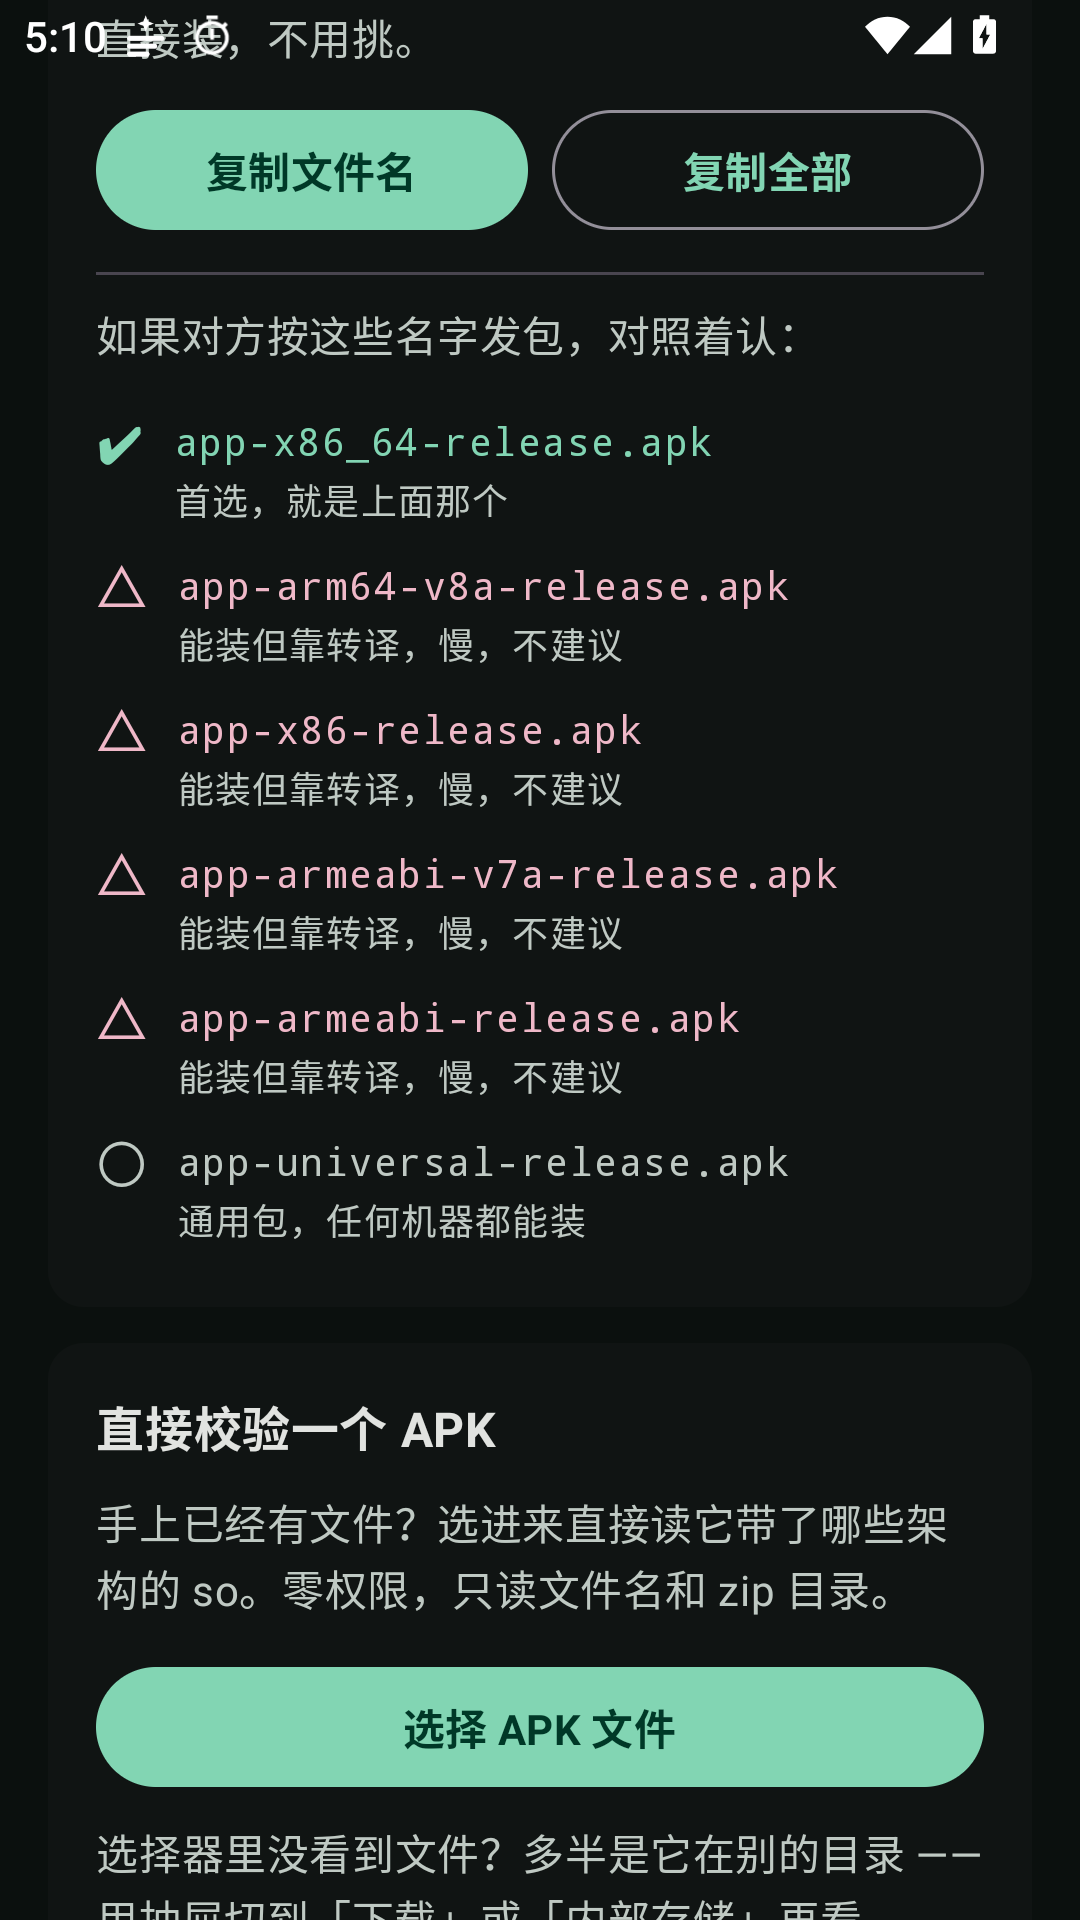
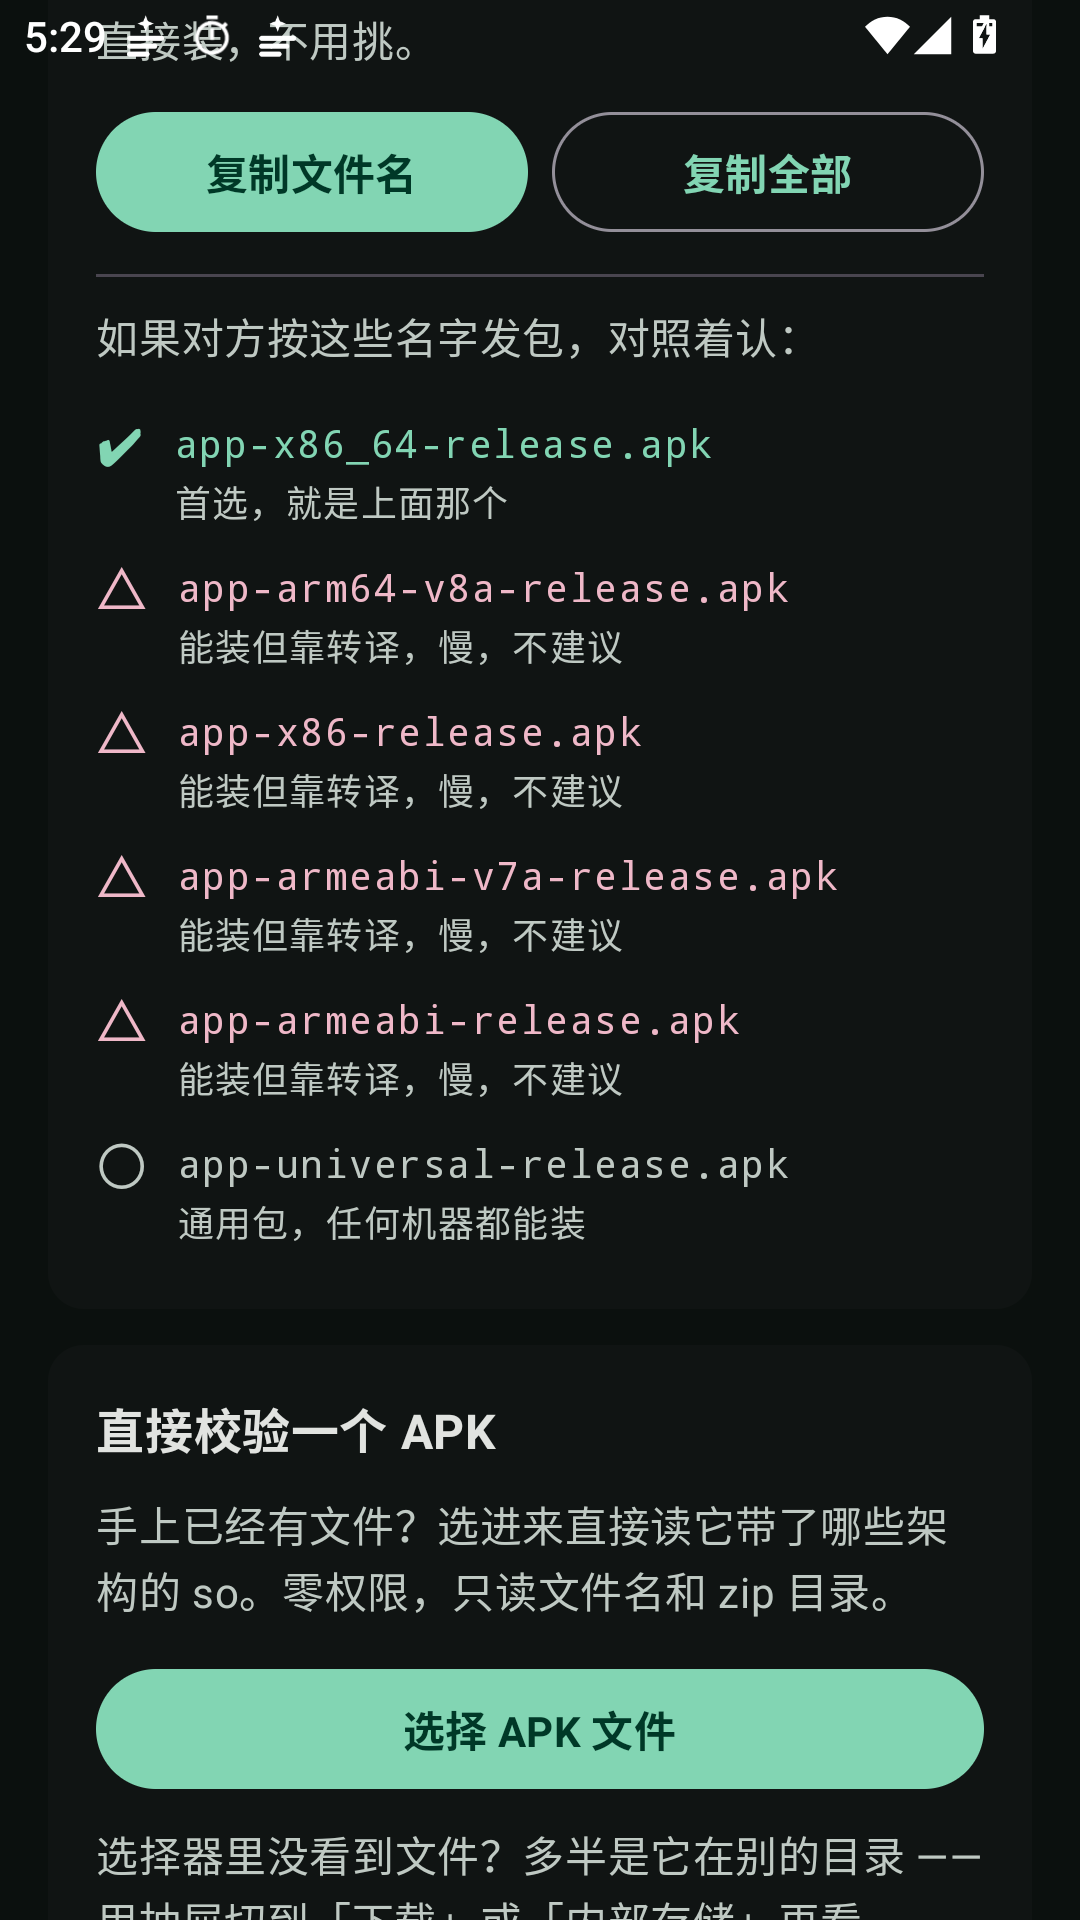
docs: 同步 1.0.0 最终版说明与截图
- 体积更正为 958,885 字节（0.91 MB）
- 截图更新为 v1.0.0 发布版界面

diff --git a/CHANGELOG.md b/CHANGELOG.md
@@ -19,7 +19,7 @@
 
 ### 技术说明
 
-- 安装包 **0.90 MB**，冷启动约 0.16 秒。
+- 安装包 **0.91 MB**，冷启动约 0.16 秒。
 - **不声明任何权限**：校验 APK 走 SAF，用户选哪个文件就授权哪个，不申请存储权限。
 - **完全离线**：无任何网络调用。
 - ABI 判定逻辑做成纯 Kotlin（不依赖 Android API），由 20 个单元测试覆盖边界，

diff --git a/README.md b/README.md
@@ -77,7 +77,7 @@
 
 | 项 | 实测 |
 |---|---|
-| Release APK | **0.91 MB**（950,717 字节） |
+| Release APK | **0.91 MB**（958,885 字节） |
 | Debug APK | 约 8.7 MB |
 | 冷启动 | 约 0.16 秒 |
 | 单元测试 | 24 通过 / 0 失败 |
